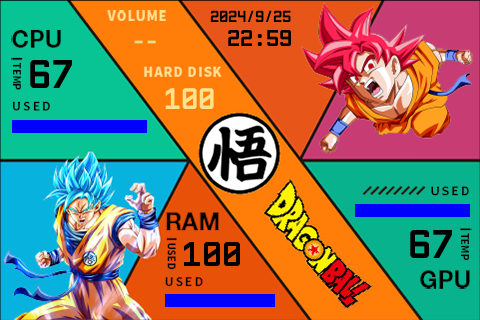
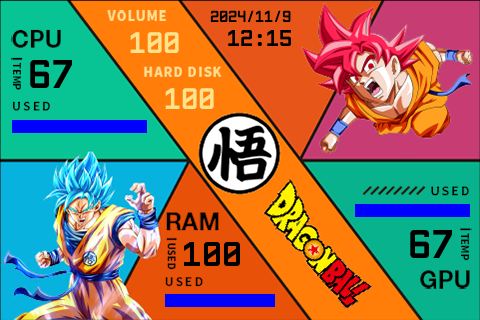
add Volume State Support

Changed region(s): [[0.25, 0.0938, 0.375, 0.1875], [0.5312, 0.0312, 0.625, 0.1562], [0.4688, 0.0938, 0.5, 0.1562]]

diff --git a/library/sensors/sensors_librehardwaremonitor.py b/library/sensors/sensors_librehardwaremonitor.py
@@ -325,8 +325,8 @@ class Gpu(sensors.Gpu):
                 if sensor.SensorType == Hardware.SensorType.Factor and "FPS" in str(
                         sensor.Name) and sensor.Value is not None:
                     # If a reading returns a value <= 0, returns old value instead
-                    if int(sensor.Value) > 0:
-                        cls.prev_fps = int(sensor.Value)
+                    if round(sensor.Value) > 0:
+                        cls.prev_fps = round(sensor.Value)
                     return cls.prev_fps
         except:
             pass
@@ -390,16 +390,16 @@ class Memory(sensors.Memory):
         for sensor in memory.Sensors:
             if sensor.SensorType == Hardware.SensorType.Data and str(sensor.Name).startswith(
                     "Virtual Memory Used") and sensor.Value is not None:
-                virtual_mem_used = int(sensor.Value)
+                virtual_mem_used = round(sensor.Value)
             elif sensor.SensorType == Hardware.SensorType.Data and str(sensor.Name).startswith(
                     "Memory Used") and sensor.Value is not None:
-                mem_used = int(sensor.Value)
+                mem_used = round(sensor.Value)
             elif sensor.SensorType == Hardware.SensorType.Data and str(sensor.Name).startswith(
                     "Virtual Memory Available") and sensor.Value is not None:
-                virtual_mem_available = int(sensor.Value)
+                virtual_mem_available = round(sensor.Value)
             elif sensor.SensorType == Hardware.SensorType.Data and str(sensor.Name).startswith(
                     "Memory Available") and sensor.Value is not None:
-                mem_available = int(sensor.Value)
+                mem_available = round(sensor.Value)
 
         # Compute swap stats from virtual / physical memory stats
         swap_used = virtual_mem_used - mem_used
@@ -429,7 +429,7 @@ class Memory(sensors.Memory):
         for sensor in memory.Sensors:
             if sensor.SensorType == Hardware.SensorType.Data and str(sensor.Name).startswith(
                     "Memory Used") and sensor.Value is not None:
-                return int(sensor.Value * 1024)
+                return round(sensor.Value * 1024)
 
         return 0
 
@@ -439,7 +439,7 @@ class Memory(sensors.Memory):
         for sensor in memory.Sensors:
             if sensor.SensorType == Hardware.SensorType.Data and str(sensor.Name).startswith(
                     "Memory Available") and sensor.Value is not None:
-                return int(sensor.Value * 1024)
+                return round(sensor.Value * 1024)
 
         return 0
 
@@ -492,9 +492,9 @@ class Disk(sensors.Disk):
                 temperature = float(sensor.Value)
             elif sensor.SensorType == Hardware.SensorType.Throughput:
                 if str(sensor.Name) == "Read Rate" and sensor.Value is not None:
-                    read_rate = int(sensor.Value)
+                    read_rate = round(sensor.Value)
                 elif str(sensor.Name) == "Write Rate" and sensor.Value is not None:
-                    write_rate = int(sensor.Value)
+                    write_rate = round(sensor.Value)
             elif sensor.SensorType == Hardware.SensorType.Load:
                 if str(sensor.Name) == "Used Space":
                     used_space = float(sensor.Value)
@@ -517,15 +517,30 @@ class Net(sensors.Net):
                 for sensor in net_if.Sensors:
                     if sensor.SensorType == Hardware.SensorType.Data and str(sensor.Name).startswith(
                             "Data Uploaded") and sensor.Value is not None:
-                        uploaded = int(sensor.Value * 1000000000.0)
+                        uploaded = round(sensor.Value * 1000000000.0)
                     elif sensor.SensorType == Hardware.SensorType.Data and str(sensor.Name).startswith(
                             "Data Downloaded") and sensor.Value is not None:
-                        downloaded = int(sensor.Value * 1000000000.0)
+                        downloaded = round(sensor.Value * 1000000000.0)
                     elif sensor.SensorType == Hardware.SensorType.Throughput and str(sensor.Name).startswith(
                             "Upload Speed") and sensor.Value is not None:
-                        upload_rate = int(sensor.Value)
+                        upload_rate = round(sensor.Value)
                     elif sensor.SensorType == Hardware.SensorType.Throughput and str(sensor.Name).startswith(
                             "Download Speed") and sensor.Value is not None:
-                        download_rate = int(sensor.Value)
+                        download_rate = round(sensor.Value)
 
         return upload_rate, uploaded, download_rate, downloaded
+
+
+class Volume(sensors.Volume):
+    @staticmethod
+    def volume_percent() -> int:
+        if platform.system() == 'Windows':
+            from comtypes import CLSCTX_ALL
+            from pycaw.pycaw import AudioUtilities, IAudioEndpointVolume
+            devices = AudioUtilities.GetSpeakers()
+            interface = devices.Activate(IAudioEndpointVolume._iid_, CLSCTX_ALL, None)
+            volume = interface.QueryInterface(IAudioEndpointVolume)
+            vl = volume.GetMasterVolumeLevelScalar() * 100
+            return round(vl)
+        else:
+            return 0

diff --git a/library/sensors/sensors_python.py b/library/sensors/sensors_python.py
@@ -431,7 +431,7 @@ class Memory(sensors.Memory):
             # Do not use psutil.virtual_memory().used: from https://psutil.readthedocs.io/en/latest/#memory
             # "It is calculated differently depending on the platform and designed for informational purposes only"
             virtual_used_t = psutil.virtual_memory().total - psutil.virtual_memory().available
-            virtual_used_t = int(virtual_used_t / 1024 / 1024)
+            virtual_used_t = round(virtual_used_t / 1024 / 1024)
             return virtual_used_t
         except:
             return -1
@@ -442,7 +442,7 @@ class Memory(sensors.Memory):
             # Do not use psutil.virtual_memory().free: from https://psutil.readthedocs.io/en/latest/#memory
             # "note that this doesn’t reflect the actual memory available (use available instead)."
             virtual_free_t = psutil.virtual_memory().available
-            virtual_free_t = int(virtual_free_t / 1024 / 1024)
+            virtual_free_t = round(virtual_free_t / 1024 / 1024)
             return virtual_free_t
         except:
             return -1
@@ -515,3 +515,18 @@ class Net(sensors.Net):
             return upload_rate, uploaded, download_rate, downloaded
         except:
             return -1, -1, -1, -1
+
+    
+class Volume(sensors.Volume):
+    @staticmethod
+    def volume_percent() -> int:
+        if platform.system() == 'Windows':
+            from comtypes import CLSCTX_ALL
+            from pycaw.pycaw import AudioUtilities, IAudioEndpointVolume
+            devices = AudioUtilities.GetSpeakers()
+            interface = devices.Activate(IAudioEndpointVolume._iid_, CLSCTX_ALL, None)
+            volume = interface.QueryInterface(IAudioEndpointVolume)
+            vl = volume.GetMasterVolumeLevelScalar() * 100
+            return round(vl)
+        else:
+            return 0

diff --git a/library/stats.py b/library/stats.py
@@ -940,6 +940,20 @@ class Custom:
                 theme_data = config.THEME_DATA['STATS']['CUSTOM'][custom_stat].get("LINE_GRAPH", None)
                 if theme_data is not None and last_values is not None:
                     display_themed_line_graph(theme_data=theme_data, values=last_values)
+                    
+class Volume:
+    last_volume_percent = -1
+    @classmethod
+    def stats(cls,forced_refresh = False):
+        volume_theme_data = config.THEME_DATA['STATS']['VOLUME']
+
+        volume_percent = sensors.Volume.volume_percent()
+
+        if volume_percent != cls.last_volume_percent or forced_refresh:
+            cls.last_volume_percent = volume_percent
+            display_themed_progress_bar(volume_theme_data['GRAPH'], volume_percent)
+            display_themed_percent_radial_bar(volume_theme_data['RADIAL'], volume_percent)
+            display_themed_percent_value(volume_theme_data['PERCENT_TEXT'], volume_percent)
 
 class LcdSensor:
     last_values_temperature = []

diff --git a/theme-editor.py b/theme-editor.py
@@ -1339,12 +1339,10 @@ class theme_editor:
                 if config.THEME_DATA["STATS"]["CUSTOM"].get("INTERVAL", 0) > 0:
                     error_text = "Custom stats"
                     stats.Custom.stats()
-                if (
-                    config.THEME_DATA["STATS"]["LCD_SENSOR"]["TEMPERATURE"].get(
-                        "INTERVAL", 0
-                    )
-                    > 0
-                ):
+                if config.THEME_DATA["STATS"]["VOLUME"].get("INTERVAL", 0) > 0:
+                    error_text = "Volume stats"
+                    stats.Volume.stats(True)
+                if (config.THEME_DATA["STATS"]["LCD_SENSOR"]["TEMPERATURE"].get("INTERVAL", 0) > 0):
                     error_text = "LcdSensor temperature"
                     stats.LcdSensor.temperature(True)
                 if (

diff --git a/library/scheduler.py b/library/scheduler.py
@@ -170,6 +170,12 @@ def CustomStats():
     # print("Refresh custom stats")
     stats.Custom.stats()
 
+@async_job("Volume_Stats")
+@schedule(timedelta(seconds=config.THEME_DATA['STATS']['VOLUME'].get("INTERVAL", 0)).total_seconds())
+def VolumeStats():
+    # logger.debug("Refresh volume stats")
+    stats.Volume.stats()
+
 @async_job("LcdSensor_Temperature")
 @schedule(timedelta(seconds=config.THEME_DATA['STATS']['LCD_SENSOR']['TEMPERATURE'].get("INTERVAL", 0)).total_seconds())
 def LcdSensorTemperature():

diff --git a/library/sensors/sensors_stub_random.py b/library/sensors/sensors_stub_random.py
@@ -109,3 +109,9 @@ class Net(sensors.Net):
         int, int, int, int]:  # up rate (B/s), uploaded (B), dl rate (B/s), downloaded (B)
         return random.randint(1000000, 999000000), random.randint(1000000, 999000000), random.randint(
             1000000, 999000000), random.randint(1000000, 999000000)
+
+
+class Volume(sensors.Volume):
+    @staticmethod
+    def volume_percent() -> int:
+        return random.randint(0, 100)

diff --git a/library/sensors/sensors_stub_static.py b/library/sensors/sensors_stub_static.py
@@ -124,3 +124,9 @@ class Net(sensors.Net):
     def stats(if_name, interval) -> Tuple[
         int, int, int, int]:  # up rate (B/s), uploaded (B), dl rate (B/s), downloaded (B)
         return NETWORK_SPEED_BYTES, NETWORK_SPEED_BYTES, NETWORK_SPEED_BYTES, NETWORK_SPEED_BYTES
+
+
+class Volume(sensors.Volume):
+    @staticmethod
+    def volume_percent() -> int:
+        return int(PERCENTAGE_SENSOR_VALUE)

diff --git a/library/sensors/sensors.py b/library/sensors/sensors.py
@@ -123,3 +123,9 @@ class Net(ABC):
     def stats(if_name, interval) -> Tuple[
         int, int, int, int]:  # up rate (B/s), uploaded (B), dl rate (B/s), downloaded (B)
         pass
+
+class Volume(ABC):
+    @staticmethod
+    @abstractmethod
+    def volume_percent() -> int:
+        pass

diff --git a/main.py b/main.py
@@ -245,6 +245,7 @@ def scheduler_init():
     scheduler.DateStats()
     scheduler.SystemUptimeStats()
     scheduler.CustomStats()
+    scheduler.VolumeStats()
     scheduler.LcdSensorTemperature()
     scheduler.LcdSensorHumidness()
     scheduler.QueueHandler()
